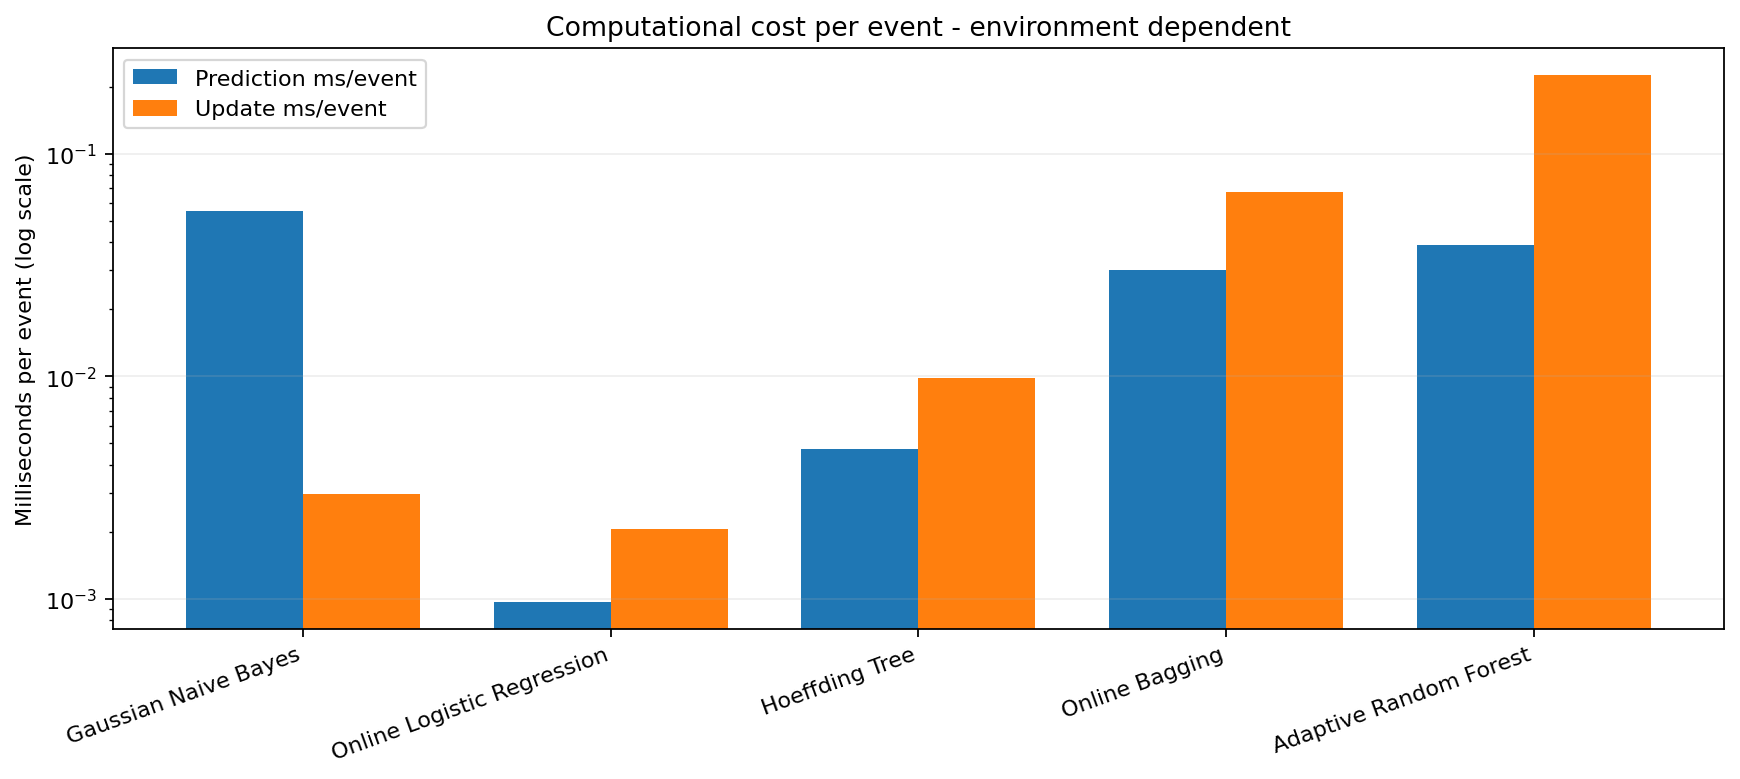
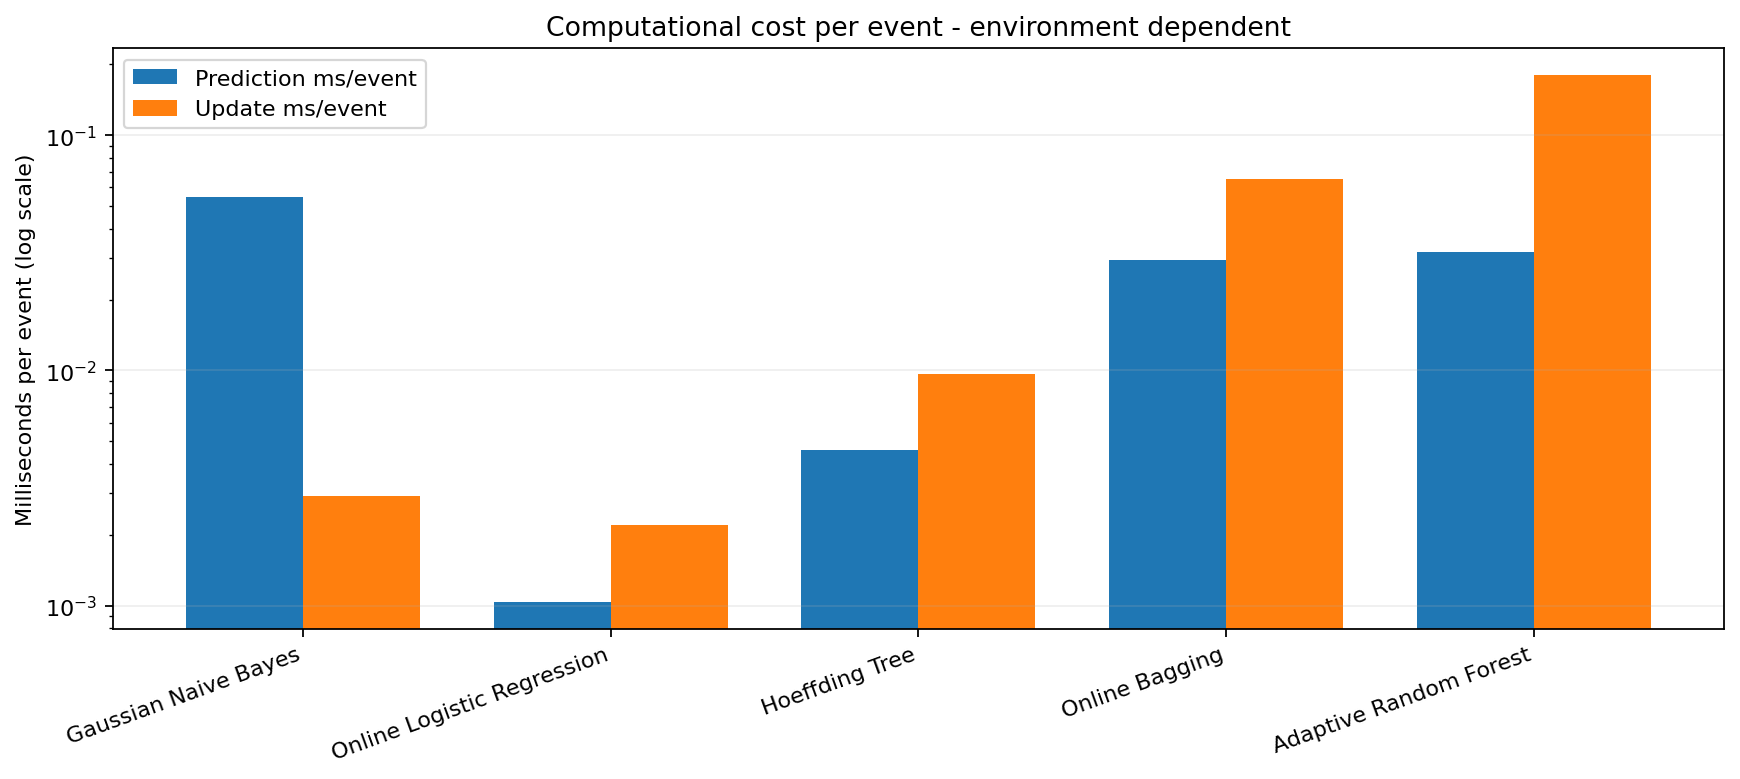
Split main into run_all_experiments, fix duplicated figure calls and save target frequency

diff --git a/src/practical_assignment.py b/src/practical_assignment.py
@@ -43,7 +43,7 @@ FEATURES = [
     "wind_speed_10m",
 ]
 
-# target T6: (T1 or T5)strong rain or strong wind
+#target T6 = T1 (rain) OR T5 (strong wind)
 RAIN_THRESHOLD_MM = 0.1   # T1: y = 1 if precipitation >= 0.1 mm
 WIND_QUANTILE = 0.80      # T5: threshold = 0.80 quantile of wind in the pooled warm-up
 
@@ -665,24 +665,32 @@ def plot_processing_cost(metrics: pd.DataFrame, figures_dir: Path = FIGURES_DIR)
     ax.grid(axis="y", alpha=0.2)
     return _save_figure(figures_dir / "processing_cost.png")
 
+def save_target_frequency(city_frames: dict[str, pd.DataFrame], warmup_end: pd.Timestamp) -> None:
+    """Save the share of rain, strong wind and T6 hours per city and period."""
+    rows = []
+    for city, df in city_frames.items():
+        in_warmup = df["timestamp"] <= warmup_end
+        for period, mask in (("warm-up", in_warmup), ("evaluation", ~in_warmup)):
+            part = df[mask]
+            rows.append({
+                "city": city,
+                "period": period,
+                "hours": len(part),
+                "rain_share": part["rain_event"].mean(),
+                "strong_wind_share": part["wind_event"].mean(),
+                "t6_share": part["y"].mean(),
+            })
+    RESULTS_DIR.mkdir(parents=True, exist_ok=True)
+    pd.DataFrame(rows).round(4).to_csv(RESULTS_DIR / "target_frequency.csv", index=False)
 
+#----------------------------------------------
+# 10. Main experiment
 
-
-
-
-
-
-
-
-
-
-
-
-
-#main function
-def main() -> None:
+def run_all_experiments() -> None:
+    """Run the experiment, from raw data to results and figures."""
     ensure_output_directories()
 
+    # 1- data: load, prepare and check both cities
     city_frames: dict[str, pd.DataFrame] = {}
     for city in (CITY_A, CITY_B):
         raw_path, payload = load_city_payload(city)
@@ -699,8 +707,8 @@ def main() -> None:
     )
     print(f"\nBoth cities share the same timestamps: {same_timestamps}")
 
+    # 2- warm-up, wind threshold and target T6
     warmup_end = get_warmup_end(city_frames, WARMUP_FRACTION)
-    # threshold from the pooled warm-up only, then frozen
     wind_threshold = compute_wind_threshold(city_frames, warmup_end, WIND_QUANTILE)
     print(f"Warm-up ends at: {warmup_end}")
     print(f"Wind threshold (frozen, quantile {WIND_QUANTILE}): {wind_threshold:.2f} km/h")
@@ -708,7 +716,9 @@ def main() -> None:
     for name in city_frames:
         city_frames[name] = add_target_t6(city_frames[name], wind_threshold)
         report_target_frequency(city_frames[name], warmup_end)
+    save_target_frequency(city_frames, warmup_end)
 
+    # 3- features A and B (past info only)
     model_frames: dict[str, pd.DataFrame] = {}
     for name in city_frames:
         featured = add_features(city_frames[name])
@@ -720,6 +730,7 @@ def main() -> None:
             f"({len(featured) - len(model_frames[name])} initial rows dropped)"
         )
 
+    # 4- prequential evaluation: one stream per city and representation
     representations = {"A": FEATURES_A, "B": FEATURES_B}
     results = []
     for name, frame in model_frames.items():
@@ -746,33 +757,51 @@ def main() -> None:
     RESULTS_DIR.mkdir(parents=True, exist_ok=True)
     metrics.round(4).to_csv(RESULTS_DIR / "metrics.csv", index=False)
     save_configuration(wind_threshold, warmup_end)
-    print("\nSaved: metrics.csv and configurations.csv")
+    print("\nSaved: metrics.csv, configurations.csv and target_frequency.csv")
 
+    # 5- results figures
     for city_name in (CITY_A["name"], CITY_B["name"]):
         path = plot_model_comparison(metrics, city_name)
         print(f"Figure saved: {path.name}")
-        print(f"Figure saved: {plot_processing_cost(metrics).name}")
+    print(f"Figure saved: {plot_processing_cost(metrics).name}")
 
+    # 6- stream profile of each city 
     for city in (CITY_A, CITY_B):
         df = city_frames[city["name"]]
         summarise_city(df)
         for feature in ("wind_speed_10m", "precipitation"):
             print(f"\nTop 5 hourly values - {city['name']} - {feature}")
             print(top_extremes(df, feature).to_string(index=False))
-            figures = [
-            plot_temporal_profile(df),
-            plot_hourly_profile(df),
-            plot_rolling_behaviour(df),
-            plot_episode_durations(df),
-        ]
 
         figures = [
             plot_temporal_profile(df),
             plot_hourly_profile(df),
             plot_rolling_behaviour(df),
+            plot_episode_durations(df),
         ]
         print(f"  Figures saved: {', '.join(path.name for path in figures)}")
 
 
+def main() -> None:
+    np.random.seed(RANDOM_SEED)
+    print("PA30 - Business-Oriented Data Stream Mining")
+    print(
+        f"Python {sys.version.split()[0]} | river {package_version('river')} "
+        f"| scikit-learn {package_version('scikit-learn')}"
+    )
+    run_all_experiments()
+
+
 if __name__ == "__main__":
     main()
+
+
+
+
+
+
+
+
+
+
+
